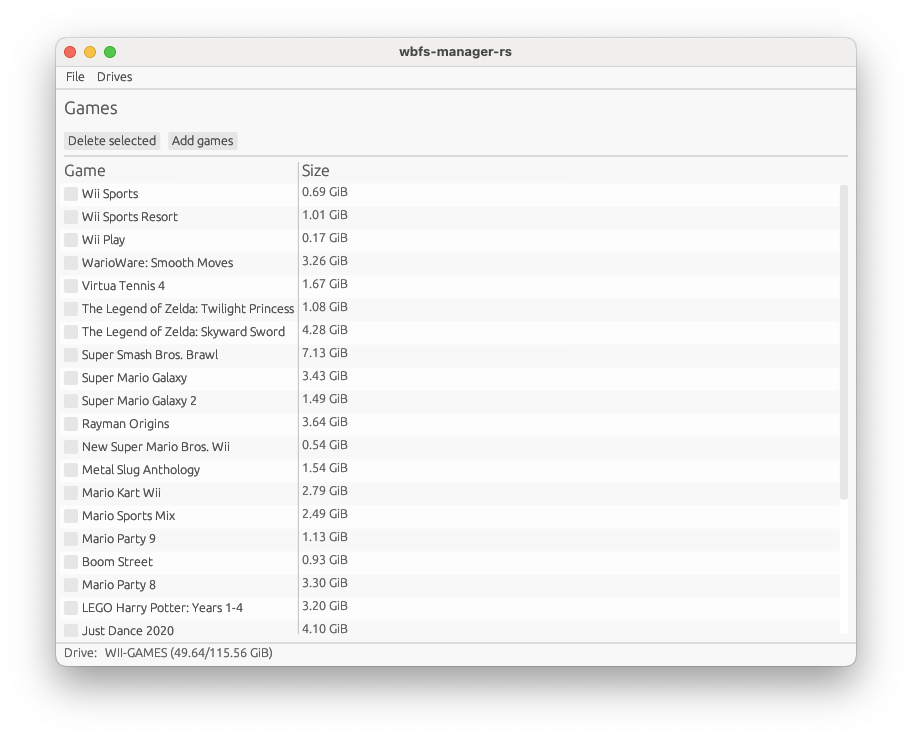
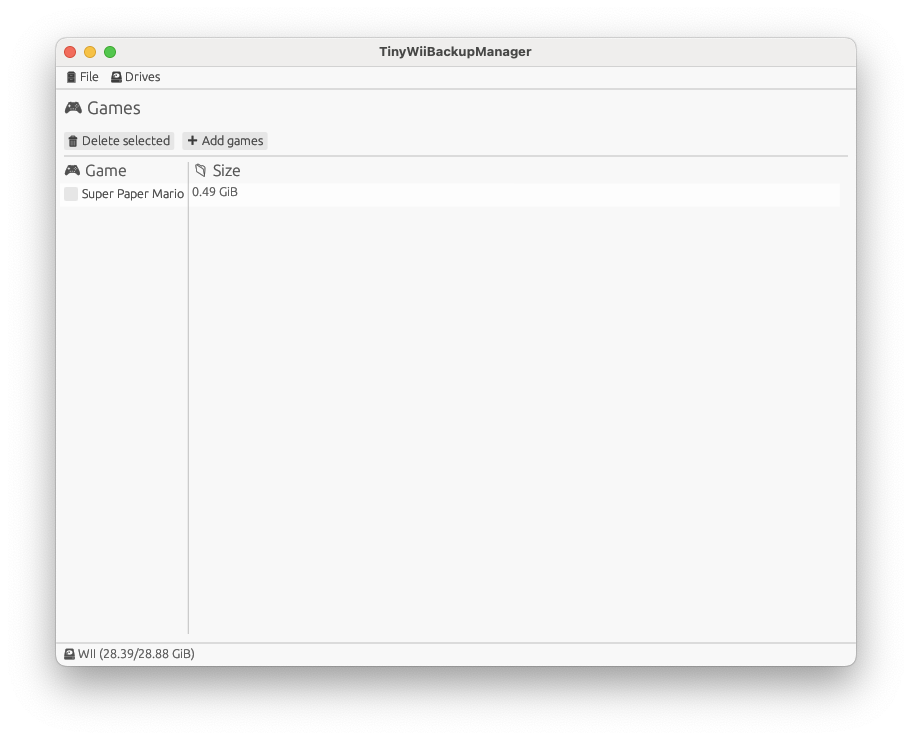
refactor: Rename to TinyWiiBackupManager

Changed region(s): [[0.0614, 0.1865, 0.3684, 0.9014], [0.0614, 0.0932, 0.1842, 0.1554], [0.3991, 0.0622, 0.5833, 0.0932]]

diff --git a/build.rs b/build.rs
@@ -3,19 +3,19 @@
 
 fn main() {
     cc::Build::new()
-        .file("wbfs_file_2.9_64bit/wbfs.c")
-        .file("wbfs_file_2.9_64bit/tools.c")
-        .file("wbfs_file_2.9_64bit/bn.c")
-        .file("wbfs_file_2.9_64bit/ec.c")
-        .file("wbfs_file_2.9_64bit/libwbfs/libwbfs.c")
-        .file("wbfs_file_2.9_64bit/libwbfs/wiidisc.c")
-        .file("wbfs_file_2.9_64bit/libwbfs/rijndael.c")
-        .file("wbfs_file_2.9_64bit/splits.c")
-        .file("wbfs_file_2.9_64bit/libwbfs/libwbfs_linux.c")
-        .file("wbfs_file_2.9_64bit/libwbfs/libwbfs_osx.c")
-        .file("wbfs_file_2.9_64bit/libwbfs/libwbfs_win32.c")
-        .include("wbfs_file_2.9_64bit")
-        .include("wbfs_file_2.9_64bit/libwbfs")
+        .file("wbfs_file_2.9/wbfs.c")
+        .file("wbfs_file_2.9/tools.c")
+        .file("wbfs_file_2.9/bn.c")
+        .file("wbfs_file_2.9/ec.c")
+        .file("wbfs_file_2.9/libwbfs/libwbfs.c")
+        .file("wbfs_file_2.9/libwbfs/wiidisc.c")
+        .file("wbfs_file_2.9/libwbfs/rijndael.c")
+        .file("wbfs_file_2.9/splits.c")
+        .file("wbfs_file_2.9/libwbfs/libwbfs_linux.c")
+        .file("wbfs_file_2.9/libwbfs/libwbfs_osx.c")
+        .file("wbfs_file_2.9/libwbfs/libwbfs_win32.c")
+        .include("wbfs_file_2.9")
+        .include("wbfs_file_2.9/libwbfs")
         .define("LARGE_FILES", None)
         .define("_FILE_OFFSET_BITS", "64")
         .opt_level(2)

diff --git a/src/main.rs b/src/main.rs
@@ -12,7 +12,7 @@ mod types;
 fn main() -> eframe::Result<()> {
     let native_options = eframe::NativeOptions::default();
     eframe::run_native(
-        "wbfs-manager-rs",
+        "TinyWiiBackupManager",
         native_options,
         Box::new(|cc| Box::new(App::new(cc))),
     )

diff --git a/src/types/app.rs b/src/types/app.rs
@@ -26,7 +26,7 @@ pub struct App {
 }
 
 impl App {
-    pub(crate) fn new(_cc: &eframe::CreationContext<'_>) -> Self {
+    pub fn new(_cc: &eframe::CreationContext<'_>) -> Self {
         Self {
             drives: Drive::list(),
             ..Default::default()
